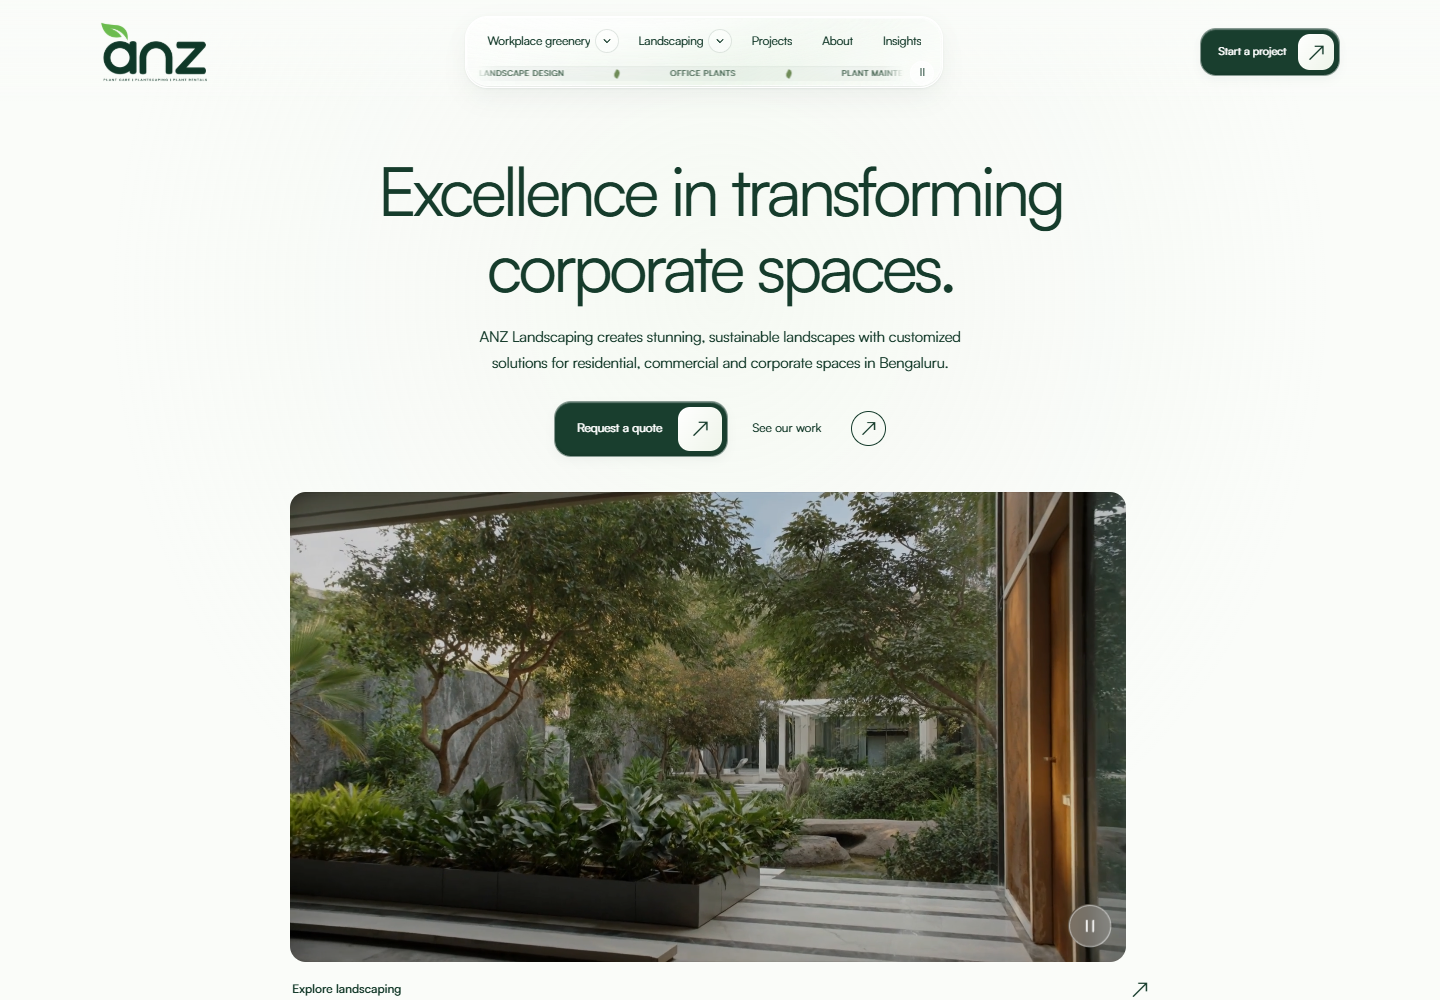
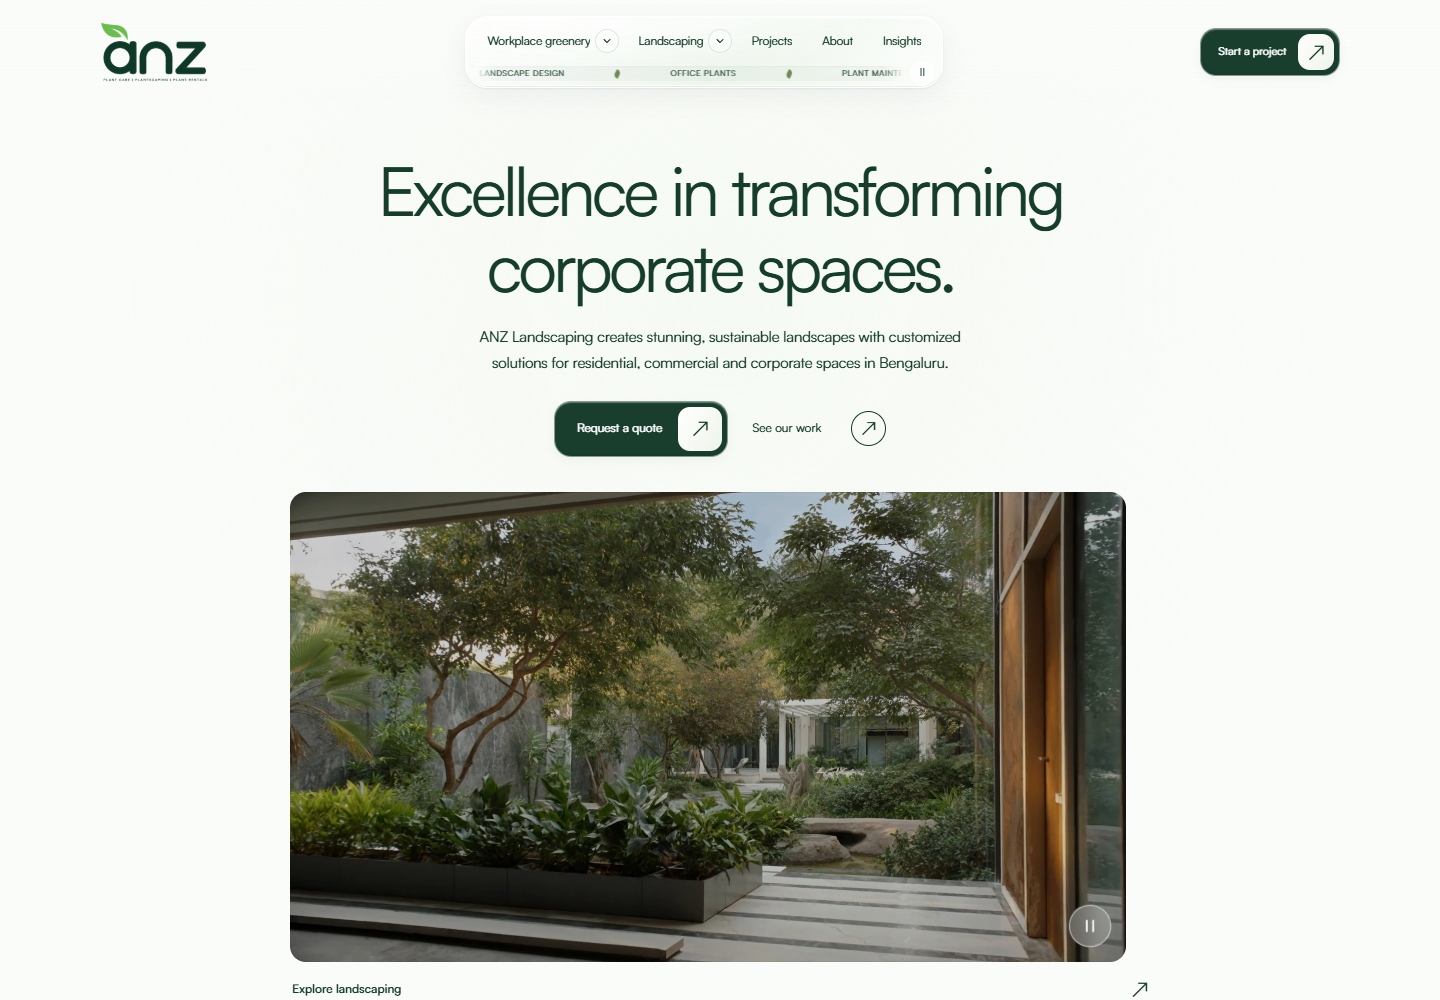
Fix hero video abort error handling and update QA test results

Changed region(s): [[0.1875, 0.465, 0.7812, 0.961]]

diff --git a/src/hero-video.ts b/src/hero-video.ts
@@ -11,7 +11,11 @@ export function initHeroVideo(){
   if(!visible||document.hidden||!automatic||userPaused){video.pause();return;}
   if(!video.getAttribute('src'))video.src=video.dataset.heroVideo!;
   video.muted=true;
-  void video.play().catch(()=>{userPaused=true;button.hidden=false;button.setAttribute('aria-label','Play hero video');button.classList.add('is-paused');});
+  if(!video.paused)return;
+  void video.play().catch((error:DOMException)=>{
+   if(error.name==='AbortError'||!visible||document.hidden||reduce.matches)return;
+   userPaused=true;button.hidden=false;button.setAttribute('aria-label','Play hero video');button.classList.add('is-paused');
+  });
  };
  const update=()=>{button.setAttribute('aria-label',video.paused?'Play hero video':'Pause hero video');button.classList.toggle('is-paused',video.paused);};
  button.addEventListener('click',()=>{userPaused=!video.paused;sync();});
